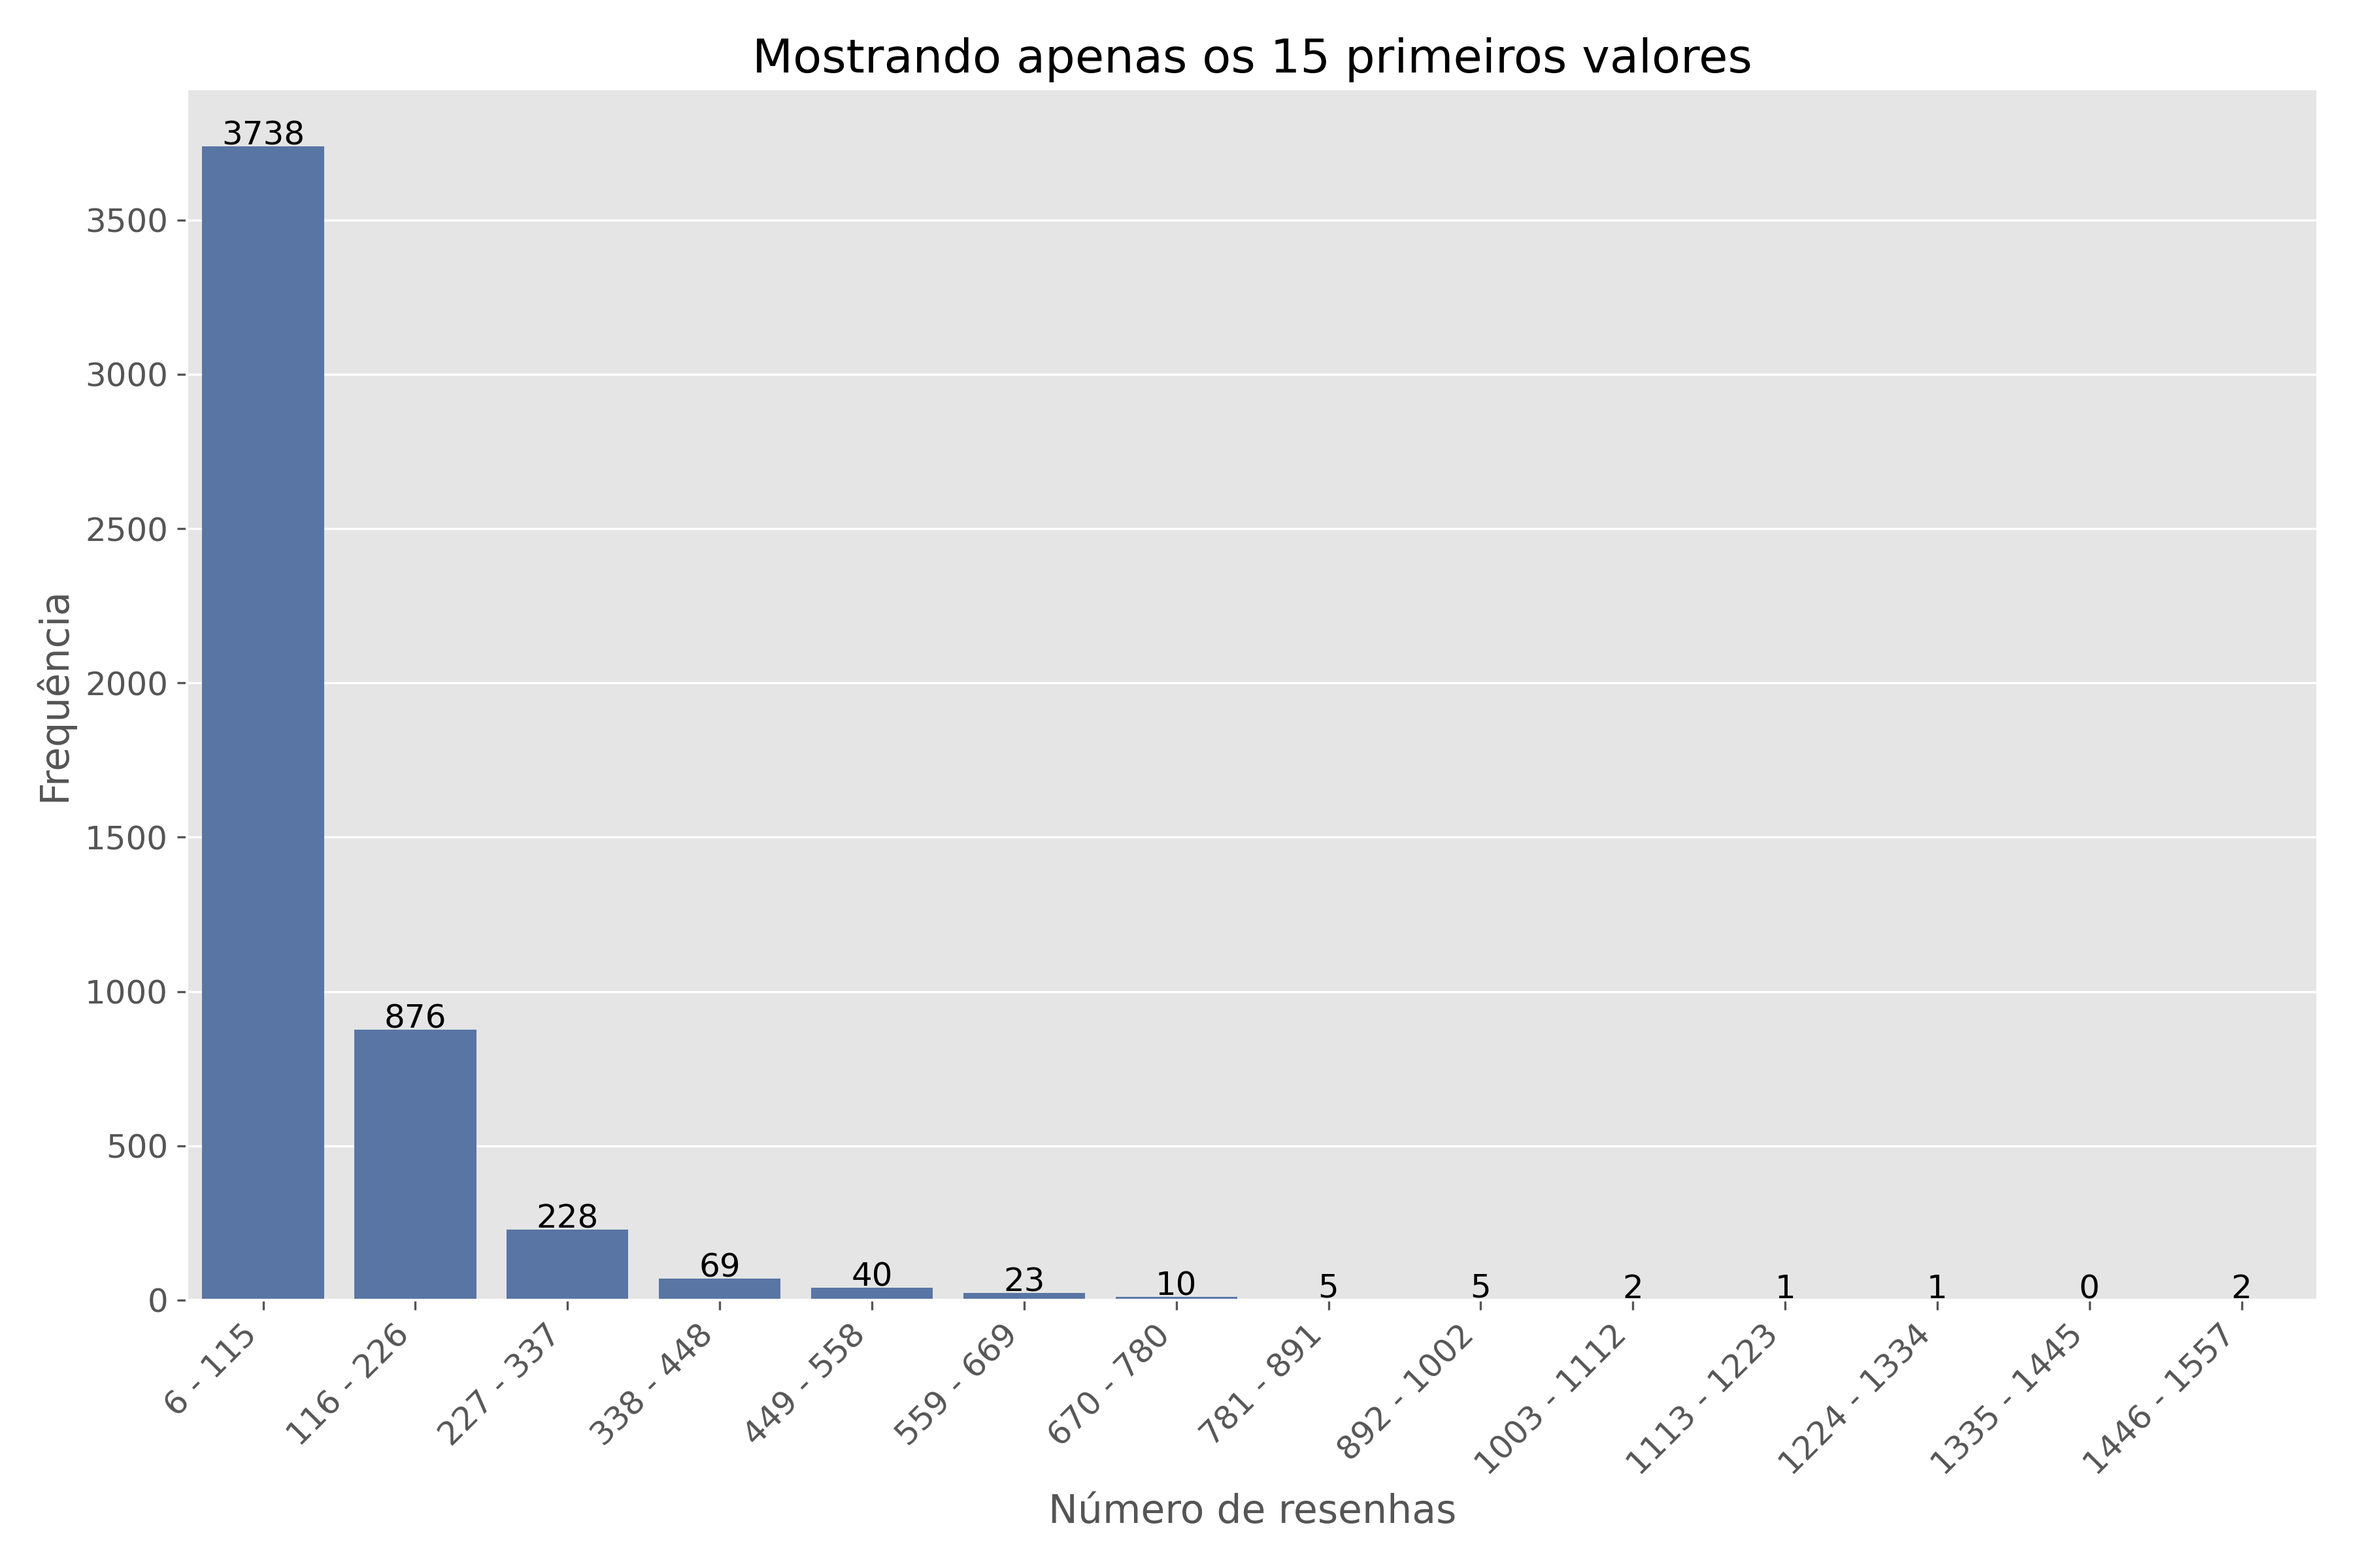
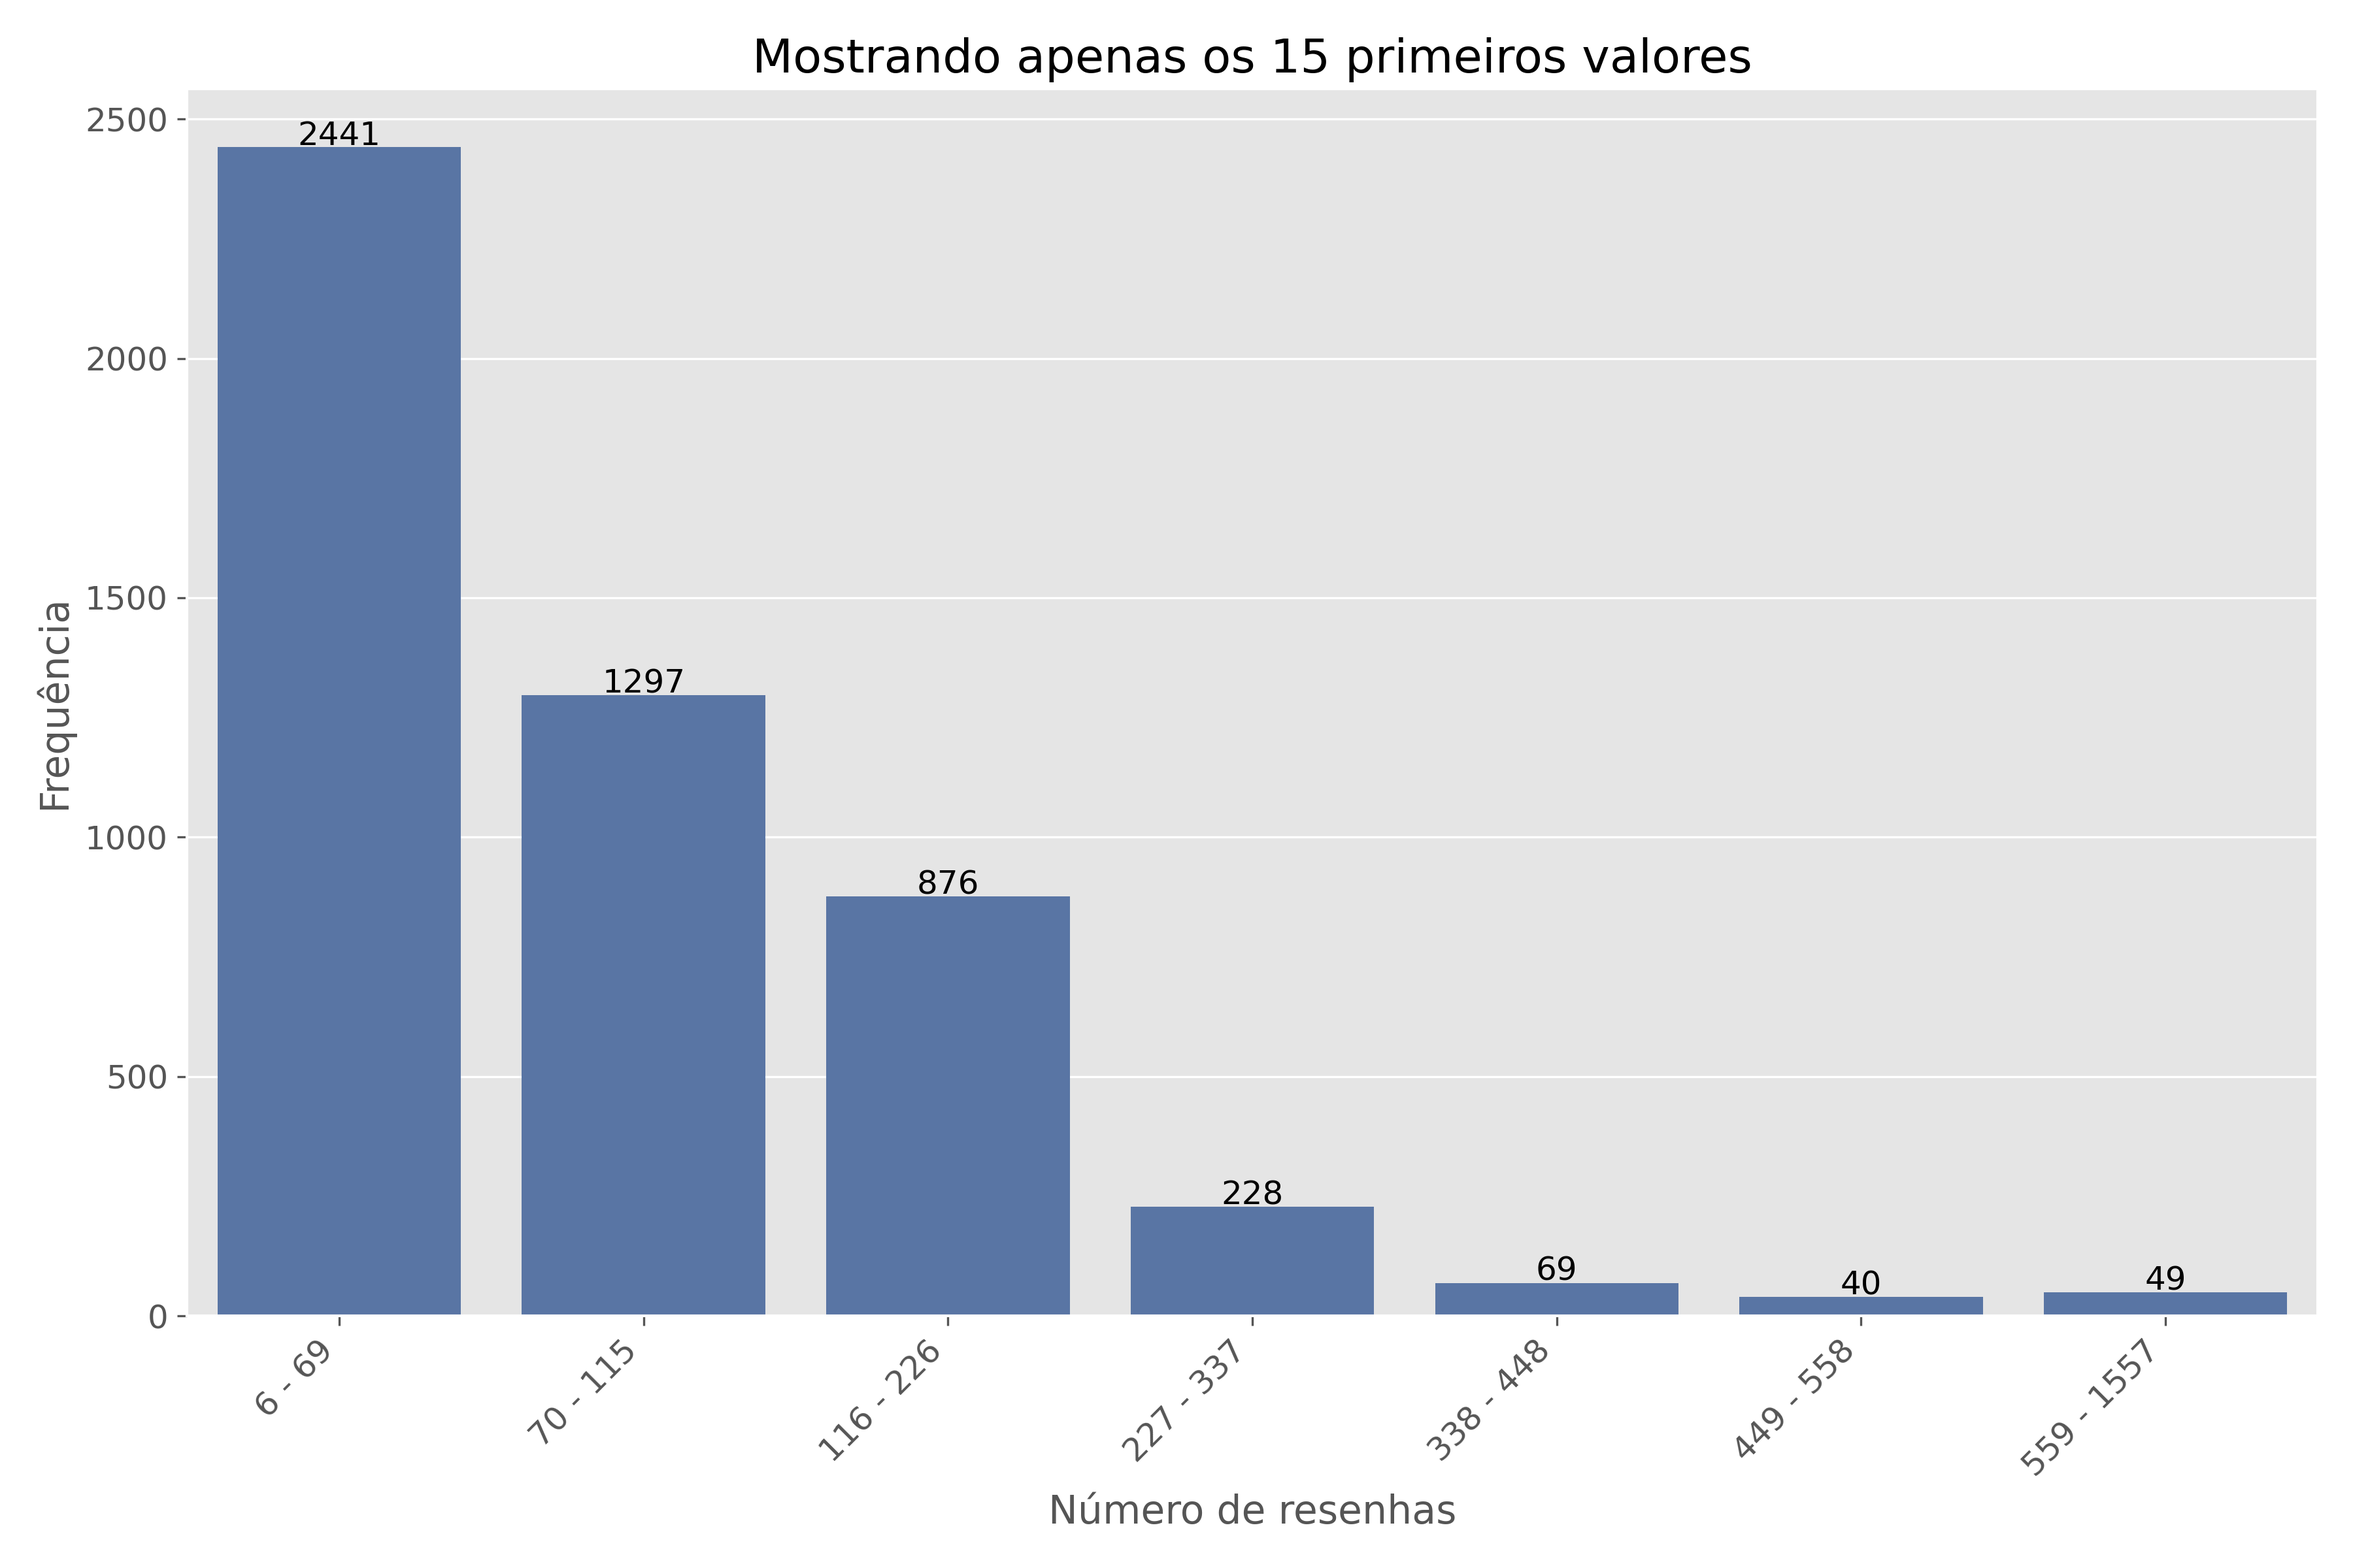
fix: arruma gráfico de frequência do número de resenhas e conserta código que conta a frequência dos intervalos para variáveis quantitativas

diff --git a/atividade_1/src/frequency_tables.py b/atividade_1/src/frequency_tables.py
@@ -153,6 +153,14 @@ def generate_quantitative_tables() -> None:
         bin_edges = create_bin_edges(variable, min_val, max_val, nbins)
 
         
+        if variable == "review_count":
+            bin_edges = bin_edges.tolist()
+            bin_edges.insert(1, 70)
+            last = bin_edges[-1]
+            bin_edges = bin_edges[:8]
+            bin_edges[-1] = last
+            nbins = len(bin_edges) - 1
+
         # Cria rótulos descritivos para as classes
         labels = create_class_labels(variable, bin_edges, nbins)
 
@@ -295,10 +303,13 @@ def calculate_class_frequencies(variable: str, values: list[tuple], bin_edges: l
                 # Se for o valor máximo, garantimos que fique na última classe
                 bin_index = nbins - 1
             else:
-                # Cálculo proporcional para determinar a classe
-                min_val = min(val for val, _ in values)
-                max_val = max(val for val, _ in values)
-                bin_index = int((val - min_val) / (max_val - min_val) * nbins)
+                # O índice da frequência a ser incrementada é o índice que representa
+                # o intervalo ao qual o valor pertence
+                for i, (low, high) in enumerate(zip(bin_edges, bin_edges[1:])):
+                    if low <= val <= high:
+                        bin_index = i
+                        break
+
                 # Proteção contra valores fora dos limites
                 bin_index = min(bin_index, nbins - 1)
 
